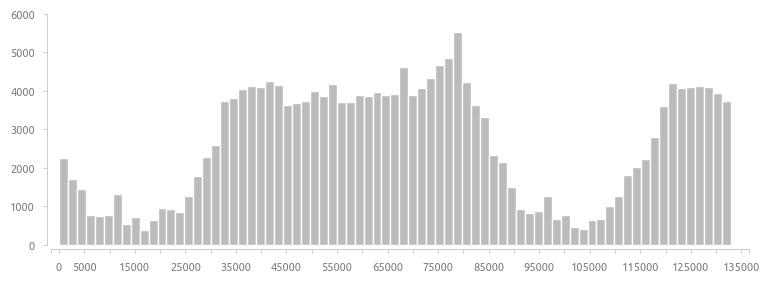
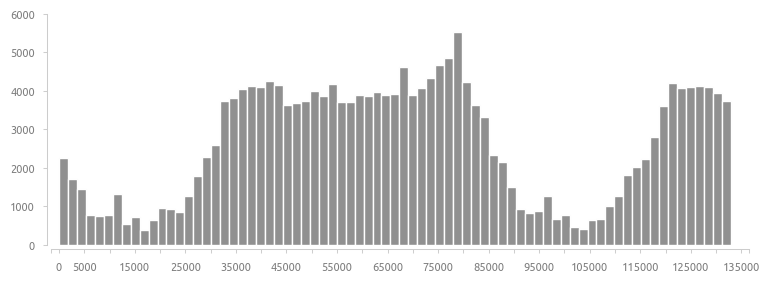
upd

Changed region(s): [[0.0624, 0.1135, 0.9675, 0.8794]]

diff --git a/docs/index.html b/docs/index.html
@@ -99,19 +99,31 @@
   </img-center>
 
   <img-center>
-    <img src='img/01-explore/transactions_overview.png'>
+    <img src='img/01-explore/transactions_overview_per_hour.png'>
   </img-center>
 
   <img-center>
-    <img src='img/01-explore/transactions_fraud_per_100.png'>
+    <img src='img/01-explore/transactions_fraud_per_100_by_hour.png'>
   </img-center>
 
   <img-center>
-    <img src='img/01-explore/transactions_simulation_count.png'>
+    <img src='img/01-explore/transactions_simulation_count_per_hour.png'>
   </img-center>
 
   <img-center>
-    <img src='img/01-explore/transactions_simulation_probability_per_hour.png'>
+    <img src='img/01-explore/transactions_simulation_probability_by_hour.png'>
+  </img-center>
+
+  <img-center>
+    <img src='img/01-explore/amount_median_per_hour.png'>
+  </img-center>
+
+  <img-center>
+    <img src='img/01-explore/amount_median_by_hour.png'>
+  </img-center>
+
+  <img-center>
+    <img src='img/01-explore/amount_median_frauds_by_hour.png'>
   </img-center>
 
 